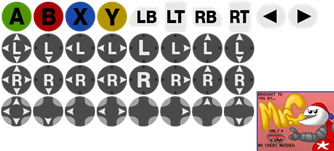
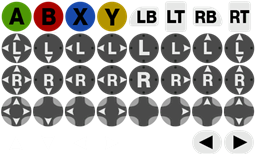
adding more sprite mappings
improving layout

fixing logic bug when find returns null

diff --git a/src/app/ship-tab/ship-tab.component.html b/src/app/ship-tab/ship-tab.component.html
@@ -1,86 +1,107 @@
-<div class="card">
-    <div class="card-header">
-        Heading
-    </div>
-    <div class="card-body">
-        <div class="container">
-            <div class="row">
-                <div class="col yaw">
-                    <div class="container-fluid yaw">
-                        <div class="row yaw-raw">
-                            <div class="col" *ngIf="getBindingsFor('yaw').length > 0"><span class="badge bg-secondary">Yaw: </span><i *ngFor="let y of getBindingsFor('yaw')"><span class="{{y}}"> &nbsp; </span></i></div>
-                        </div>
-                        <div class="row yaw-separate">
-                            <div class="col" *ngIf="getBindingsFor('yawLeft').length > 0"><span class="badge bg-secondary">Yaw Left: </span><i *ngFor="let yl of getBindingsFor('yawLeft')"><span class="{{yl}}"> &nbsp; </span></i></div>
-                            <div class="col" *ngIf="getBindingsFor('yawRight').length > 0"><span class="badge bg-secondary">Yaw Right: </span><i *ngFor="let yr of getBindingsFor('yawRight')"><span class="{{yr}}"> &nbsp; </span></i></div>
-                        </div>
-                    </div>
+<div class="container-fluid">
+    <div class="row">
+        <div class="col">
+            <div class="card">
+                <div class="card-header">Heading</div>
+                <div class="d-flex" *ngIf="getBindingsFor('yaw').length > 0">
+                    <div class="bg-light p-1 flex-shrink-0">Yaw: </div><div class="border border-light p-1 w-100"><i *ngFor="let y of getBindingsFor('yaw')"><span class="{{y}}"> &nbsp; </span></i></div>
                 </div>
-                <div class="col roll">
-                    <div class="container-fluid roll">
-                        <div class="row roll-raw">
-                            <div class="col" *ngIf="getBindingsFor('roll').length > 0"><span class="badge bg-secondary">Roll: </span><i *ngFor="let r of getBindingsFor('roll')"><span class="{{r}}"> &nbsp; </span></i></div>
-                        </div>
-                        <div class="row roll-separate">
-                            <div class="col" *ngIf="getBindingsFor('rollLeft').length > 0"><span class="badge bg-secondary">Roll Left: </span><i *ngFor="let rl of getBindingsFor('rollLeft')"><span class="{{rl}}"> &nbsp; </span></i></div>
-                            <div class="col" *ngIf="getBindingsFor('rollRight').length > 0"><span class="badge bg-secondary">Roll Right: </span><i *ngFor="let rr of getBindingsFor('rollRight')"><span class="{{rr}}"> &nbsp; </span></i></div>
-                        </div>
-                    </div>
+                <div class="d-flex" *ngIf="getBindingsFor('yawLeft').length > 0">
+                    <div class="bg-light p-1 flex-shrink-0">Yaw Left: </div><div class="border border-light p-1 w-100"><i *ngFor="let yl of getBindingsFor('yawLeft')"><span class="{{yl}}"> &nbsp; </span></i></div>
                 </div>
-                <div class="col pitch">
-                    <div class="container-fluid pitch">
-                        <div class="row pitch-raw">
-                            <div class="col" *ngIf="getBindingsFor('pitch').length > 0"><span class="badge bg-secondary">Pitch: </span><i *ngFor="let p of getBindingsFor('pitch')"><span class="{{p}}"> &nbsp; </span></i></div>
-                        </div>
-                        <div class="row pitch-separate">
-                            <div class="col" *ngIf="getBindingsFor('pitchUp').length > 0"><span class="badge bg-secondary">Pitch Up: </span><i *ngFor="let pu of getBindingsFor('pitchUp')"><span class="{{pu}}"> &nbsp; </span></i></div>
-                            <div class="col" *ngIf="getBindingsFor('pitchDown').length > 0"><span class="badge bg-secondary">Pitch Down: </span><i *ngFor="let pd of getBindingsFor('pitchDown')"><span class="{{pd}}"> &nbsp; </span></i></div>
-                        </div>
-                    </div>
+                <div class="d-flex" *ngIf="getBindingsFor('yawRight').length > 0">
+                    <div class="bg-light p-1 flex-shrink-0">Yaw Right: </div><div class="border border-light p-1 w-100"><i *ngFor="let yr of getBindingsFor('yawRight')"><span class="{{yr}}"> &nbsp; </span></i></div>
+                </div>
+                <div class="d-flex" *ngIf="getBindingsFor('roll').length > 0">
+                    <div class="bg-light p-1 flex-shrink-0">Roll: </div><div class="border border-light p-1 w-100"><i *ngFor="let r of getBindingsFor('roll')"><span class="{{r}}"> &nbsp; </span></i></div>
+                </div>
+                <div class="d-flex" *ngIf="getBindingsFor('rollLeft').length > 0">
+                    <div class="bg-light p-1 flex-shrink-0">Roll Left: </div><div class="border border-light p-1 w-100"><i *ngFor="let rl of getBindingsFor('rollLeft')"><span class="{{rl}}"> &nbsp; </span></i></div>
+                </div>
+                <div class="d-flex" *ngIf="getBindingsFor('rollRight').length > 0">
+                    <div class="bg-light p-1 flex-shrink-0">Roll Right: </div><div class="border border-light p-1 w-100"><i *ngFor="let rr of getBindingsFor('rollRight')"><span class="{{rr}}"> &nbsp; </span></i></div>
+                </div>
+                <div class="d-flex" *ngIf="getBindingsFor('pitch').length > 0">
+                    <div class="bg-light p-1 flex-shrink-0">Pitch: </div><div class="border border-light p-1 w-100"><i *ngFor="let p of getBindingsFor('pitch')"><span class="{{p}}"> &nbsp; </span></i></div>
+                </div>
+                <div class="d-flex" *ngIf="getBindingsFor('pitchUp').length > 0">
+                    <div class="bg-light p-1 flex-shrink-0">Pitch Up: </div><div class="border border-light p-1 w-100"><i *ngFor="let pu of getBindingsFor('pitchUp')"><span class="{{pu}}"> &nbsp; </span></i></div>
+                </div>
+                <div class="d-flex" *ngIf="getBindingsFor('pitchDown').length > 0">
+                    <div class="bg-light p-1 flex-shrink-0">Pitch Down: </div><div class="border border-light p-1 w-100"><i *ngFor="let pd of getBindingsFor('pitchDown')"><span class="{{pd}}"> &nbsp; </span></i></div>
                 </div>
             </div>
         </div>
-    </div>
-</div>
-<div class="card">
-    <div class="card-header">
-        Movement
-    </div>
-    <div class="card-body">
-        <div class="container">
-            <div class="row">
-                <div class="col vertical-thrust">
-                    <div class="container-fluid vertical-thrust">
-                        <div class="row vertical-thrust-raw">
-                            <div class="col" *ngIf="getBindingsFor('verticalThrust').length > 0"><span class="badge bg-secondary">Vertical Thrust: </span><i *ngFor="let vt of getBindingsFor('verticalThrust')"><span class="{{vt}}"> &nbsp; </span></i></div>
-                        </div>
-                        <div class="row vertical-thrust-separate">
-                            <div class="col" *ngIf="getBindingsFor('thrustUp').length > 0"><span class="badge bg-secondary">Thrust Up: </span><i *ngFor="let ut of getBindingsFor('upThrust')"><span class="{{ut}}"> &nbsp; </span></i></div>
-                            <div class="col" *ngIf="getBindingsFor('thrustDown').length > 0"><span class="badge bg-secondary">Down Thrust: </span><i *ngFor="let dt of getBindingsFor('downThrust')"><span class="{{dt}}"> &nbsp; </span></i></div>
-                        </div>
-                    </div>
+        <div class="col">
+            <div class="card">
+                <div class="card-header">Movement</div>
+                <div class="d-flex" *ngIf="getBindingsFor('verticalThrust').length > 0">
+                    <div class="bg-light p-1 flex-shrink-0">Vertical Thrust: </div><div class="border border-light p-1 w-100"><i *ngFor="let vt of getBindingsFor('verticalThrust')"><span class="{{vt}}"> &nbsp; </span></i></div>
                 </div>
-                <div class="col horizontal-thrust">
-                    <div class="container-fluid horizontal-thrust">
-                        <div class="row horizontal-thrust-raw">
-                            <div class="col" *ngIf="getBindingsFor('horizontalThrust').length > 0"><span class="badge bg-secondary">Horizontal Thrust: </span><i *ngFor="let ht of getBindingsFor('horizontalThrust')"><span class="{{ht}}"> &nbsp; </span></i></div>
-                        </div>
-                        <div class="row horizontal-thrust-separate">
-                            <div class="col" *ngIf="getBindingsFor('leftThrust').length > 0"><span class="badge bg-secondary">Left Thrust: </span><i *ngFor="let lt of getBindingsFor('leftThrust')"><span class="{{lt}}"> &nbsp; </span></i></div>
-                            <div class="col" *ngIf="getBindingsFor('rightThrust').length > 0"><span class="badge bg-secondary">Right Thrust: </span><i *ngFor="let rt of getBindingsFor('rightThrust')"><span class="{{rt}}"> &nbsp; </span></i></div>
-                        </div>
-                    </div>
+                <div class="d-flex" *ngIf="getBindingsFor('thrustUp').length > 0">
+                    <div class="bg-light p-1 flex-shrink-0">Thrust Up: </div><div class="border border-light p-1 w-100"><i *ngFor="let ut of getBindingsFor('upThrust')"><span class="{{ut}}"> &nbsp; </span></i></div>
                 </div>
-                <div class="col ahead-thrust">
-                    <div class="container-fluid ahead-thrust">
-                        <div class="row ahead-thrust-raw">
-                            <div class="col" *ngIf="getBindingsFor('aheadThrust').length > 0"><span class="badge bg-secondary">Ahead Thrust: </span><i *ngFor="let at of getBindingsFor('aheadThrust')"><span class="{{at}}"> &nbsp; </span></i></div>
-                        </div>
-                        <div class="row ahead-thrust-separate">
-                            <div class="col" *ngIf="getBindingsFor('forwardThrust').length > 0"><span class="badge bg-secondary">Forward Thrust: </span><i *ngFor="let ft of getBindingsFor('forwardThrust')"><span class="{{ft}}"> &nbsp; </span></i></div>
-                            <div class="col" *ngIf="getBindingsFor('backwardThrust').length > 0"><span class="badge bg-secondary">Backward Thrust: </span><i *ngFor="let bt of getBindingsFor('backwardThrust')"><span class="{{bt}}"> &nbsp; </span></i></div>
-                        </div>
-                    </div>
+                <div class="d-flex" *ngIf="getBindingsFor('thrustDown').length > 0">
+                    <div class="bg-light p-1 flex-shrink-0">Down Thrust: </div><div class="border border-light p-1 w-100"><i *ngFor="let dt of getBindingsFor('downThrust')"><span class="{{dt}}"> &nbsp; </span></i></div>
+                </div>
+                <div class="d-flex" *ngIf="getBindingsFor('horizontalThrust').length > 0">
+                    <div class="bg-light p-1 flex-shrink-0">Horizontal Thrust: </div><div class="border border-light p-1 w-100"><i *ngFor="let ht of getBindingsFor('horizontalThrust')"><span class="{{ht}}"> &nbsp; </span></i></div>
+                </div>
+                <div class="d-flex" *ngIf="getBindingsFor('leftThrust').length > 0">
+                    <div class="bg-light p-1 flex-shrink-0">Left Thrust: </div><div class="border border-light p-1 w-100"><i *ngFor="let lt of getBindingsFor('leftThrust')"><span class="{{lt}}"> &nbsp; </span></i></div>
+                </div>
+                <div class="d-flex" *ngIf="getBindingsFor('rightThrust').length > 0">
+                    <div class="bg-light p-1 flex-shrink-0">Right Thrust: </div><div class="border border-light p-1 w-100"><i *ngFor="let rt of getBindingsFor('rightThrust')"><span class="{{rt}}"> &nbsp; </span></i></div>
+                </div>
+                <div class="d-flex" *ngIf="getBindingsFor('aheadThrust').length > 0">
+                    <div class="bg-light p-1 flex-shrink-0">Ahead Thrust: </div><div class="border border-light p-1 w-100"><i *ngFor="let at of getBindingsFor('aheadThrust')"><span class="{{at}}"> &nbsp; </span></i></div>
+                </div>
+                <div class="d-flex" *ngIf="getBindingsFor('forwardThrust').length > 0">
+                    <div class="bg-light p-1 flex-shrink-0">Forward Thrust: </div><div class="border border-light p-1 w-100"><i *ngFor="let ft of getBindingsFor('forwardThrust')"><span class="{{ft}}"> &nbsp; </span></i></div>
+                </div>
+                <div class="d-flex" *ngIf="getBindingsFor('backwardThrust').length > 0">
+                    <div class="bg-light p-1 flex-shrink-0">Backward Thrust: </div><div class="border border-light p-1 w-100"><i *ngFor="let bt of getBindingsFor('backwardThrust')"><span class="{{bt}}"> &nbsp; </span></i></div>
+                </div>
+            </div>
+        </div>
+        <div class="col">
+            <div class="card">
+                <div class="card-header">Thrust</div>
+                <div class="d-flex" *ngIf="getBindingsFor('throttle').length > 0">
+                    <div class="bg-light p-1 flex-shrink-0">Throttle: </div><div class="border border-light p-1 w-100"><i *ngFor="let t of getBindingsFor('thrust')"><span class="{{t}}"> &nbsp; </span></i></div>
+                </div>
+                <div class="d-flex" *ngIf="getBindingsFor('forward').length > 0">
+                    <div class="bg-light p-1 flex-shrink-0">Throttle Up: </div><div class="border border-light p-1 w-100"><i *ngFor="let tu of getBindingsFor('forward')"><span class="{{tu}}"> &nbsp; </span></i></div>
+                </div>
+                <div class="d-flex" *ngIf="getBindingsFor('backward').length > 0">
+                    <div class="bg-light p-1 flex-shrink-0">Throttle Down: </div><div class="border border-light p-1 w-100"><i *ngFor="let td of getBindingsFor('backward')"><span class="{{td}}"> &nbsp; </span></i></div>
+                </div>
+                <div class="d-flex" *ngIf="getBindingsFor('speedMinus100').length > 0">
+                    <div class="bg-light p-1 flex-shrink-0">Speed -100%: </div><div class="border border-light p-1 w-100"><i *ngFor="let t of getBindingsFor('speedMinus100')"><span class="{{t}}"> &nbsp; </span></i></div>
+                </div>
+                <div class="d-flex" *ngIf="getBindingsFor('speedMinus75').length > 0">
+                    <div class="bg-light p-1 flex-shrink-0">Speed -75%: </div><div class="border border-light p-1 w-100"><i *ngFor="let t of getBindingsFor('speedMinus75')"><span class="{{t}}"> &nbsp; </span></i></div>
+                </div>
+                <div class="d-flex" *ngIf="getBindingsFor('speedMinus50').length > 0">
+                    <div class="bg-light p-1 flex-shrink-0">Speed -50%: </div><div class="border border-light p-1 w-100"><i *ngFor="let t of getBindingsFor('speedMinus50')"><span class="{{t}}"> &nbsp; </span></i></div>
+                </div>
+                <div class="d-flex" *ngIf="getBindingsFor('speedMinus25').length > 0">
+                    <div class="bg-light p-1 flex-shrink-0">Speed -25%: </div><div class="border border-light p-1 w-100"><i *ngFor="let t of getBindingsFor('speedMinus25')"><span class="{{t}}"> &nbsp; </span></i></div>
+                </div>
+                <div class="d-flex" *ngIf="getBindingsFor('speedZero').length > 0">
+                    <div class="bg-light p-1 flex-shrink-0">Speed 0%: </div><div class="border border-light p-1 w-100"><i *ngFor="let t of getBindingsFor('speedZero')"><span class="{{t}}"> &nbsp; </span></i></div>
+                </div>
+                <div class="d-flex" *ngIf="getBindingsFor('speed25').length > 0">
+                    <div class="bg-light p-1 flex-shrink-0">Speed 25%: </div><div class="border border-light p-1 w-100"><i *ngFor="let t of getBindingsFor('speed25')"><span class="{{t}}"> &nbsp; </span></i></div>
+                </div>
+                <div class="d-flex" *ngIf="getBindingsFor('speed50').length > 0">
+                    <div class="bg-light p-1 flex-shrink-0">Speed 50%: </div><div class="border border-light p-1 w-100"><i *ngFor="let t of getBindingsFor('speed50')"><span class="{{t}}"> &nbsp; </span></i></div>
+                </div>
+                <div class="d-flex" *ngIf="getBindingsFor('speed75').length > 0">
+                    <div class="bg-light p-1 flex-shrink-0">Speed 75%: </div><div class="border border-light p-1 w-100"><i *ngFor="let t of getBindingsFor('speed75')"><span class="{{t}}"> &nbsp; </span></i></div>
+                </div>
+                <div class="d-flex" *ngIf="getBindingsFor('speed100').length > 0">
+                    <div class="bg-light p-1 flex-shrink-0">Speed 100%: </div><div class="border border-light p-1 w-100"><i *ngFor="let t of getBindingsFor('speed100')"><span class="{{t}}"> &nbsp; </span></i></div>
                 </div>
             </div>
         </div>

diff --git a/src/app/ship-tab/ship-tab.component.ts b/src/app/ship-tab/ship-tab.component.ts
@@ -31,7 +31,7 @@ export class ShipTabComponent implements OnInit, OnDestroy {
   verticalThrustKey: string = 'root.verticalthrustraw';
   upThrustKey: string = 'root.upthrustbutton';
   downThrustKey: string = 'root.downthrustbutton';
-  aheadThrustKey: string = 'root.aheadthrustraw';
+  aheadThrustKey: string = 'root.aheadthrust';
   forwardThrustKey: string = 'root.forwardthrustbutton';
   backwardThrustKey: string = 'root.backwardthrustbutton';
   /** THROTTLE */
@@ -128,8 +128,8 @@ export class ShipTabComponent implements OnInit, OnDestroy {
       if (ctrl) {
         return ctrl.keys.reverse();
       }
-      return [];
     }
+    return [];
   }
 
   ngOnInit(): void {

diff --git a/src/app/ship-tab/ship-tab.component.css b/src/app/ship-tab/ship-tab.component.css
@@ -39,3 +39,15 @@ span.GamePad_FaceDown {
 span.GamePad_FaceLeft {
     background: url('/assets/GameControllerButtons.png') -64px 0px no-repeat;
 }
+span.GamePad_LBumper {
+    background: url('/assets/GameControllerButtons.png') -128px 0px no-repeat;
+}
+span.GamePad_RBumper {
+    background: url('/assets/GameControllerButtons.png') -192px 0px no-repeat;
+}
+span.Pos_GamePad_LTrigger {
+    background: url('/assets/GameControllerButtons.png') -160px 0px no-repeat;
+}
+span.Pos_GamePad_RTrigger {
+    background: url('/assets/GameControllerButtons.png') -224px 0px no-repeat;
+}

diff --git a/src/helpers/find.ts b/src/helpers/find.ts
@@ -62,7 +62,7 @@ export module Find {
                 }
             }
         } catch (e) {
-            console.error(e);
+            console.error(`ERROR with keys '${keys}' due to: ${e}`);
         }
         return input;
     }
